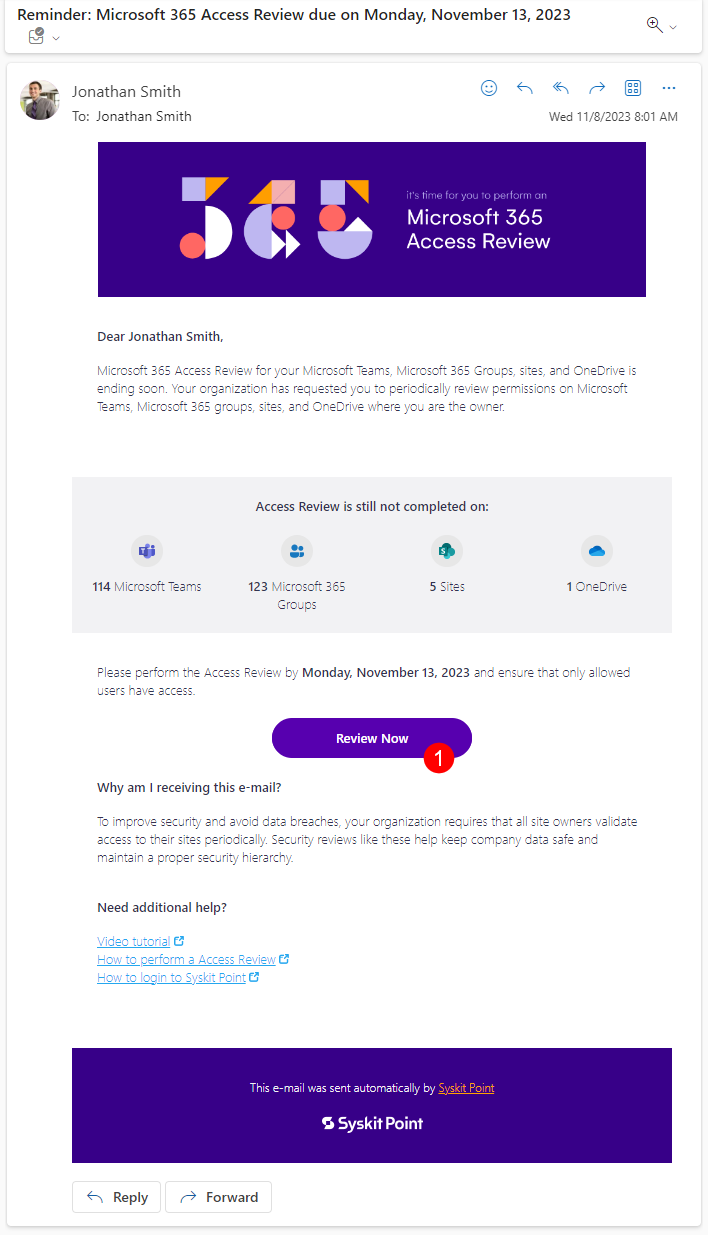
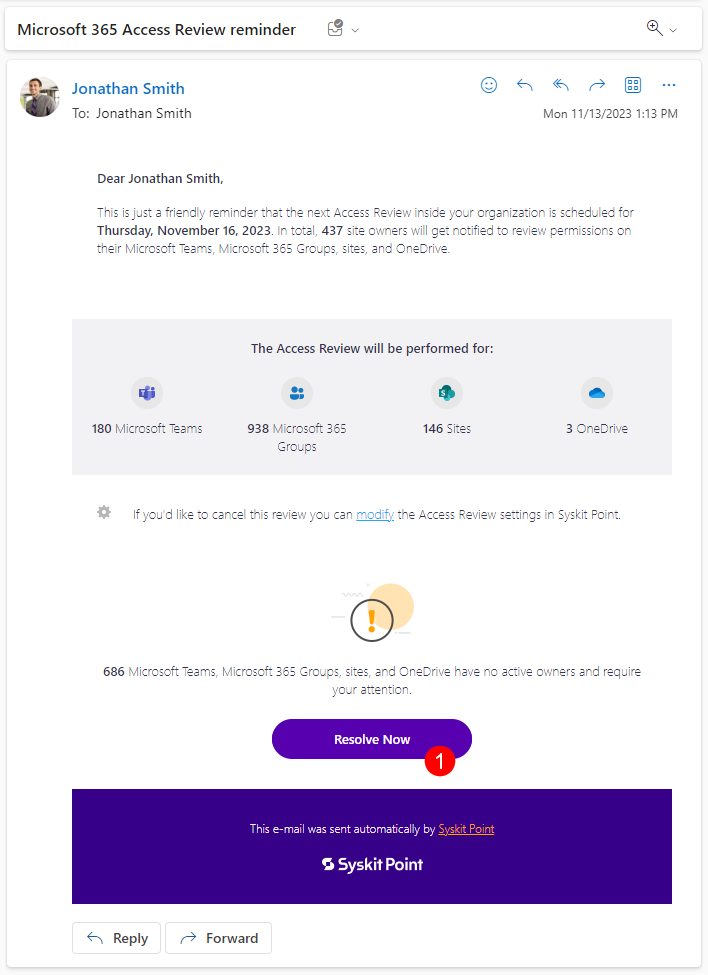
additional updates

diff --git a/governance-and-automation/permissions-review/monitor-permissions-review.md b/governance-and-automation/permissions-review/monitor-permissions-review.md
@@ -43,9 +43,10 @@ Here, we will describe how **Syskit Point Admin** can monitor the progress of an
 
 Three workdays before the start of automated Access Review, Syskit Point Admin users will receive a reminder email with the most important information about the upcoming Access Review:
 
-* **End date** by which the Access Review should be completed
+* **Start date** of the upcoming Access Review
 * **The number of workspaces** - Microsoft Teams, Microsoft 365 Groups, sites, and OneDrive - included in the upcoming Access Review
-* **Review Now (1)** button
+* **Resolve Now (1)** in case some workspaces don't have active owners who will be responsible for performing the Access Review
+  * Clicking the Resolve Now button in the e-mail opens the Manage Reviewers report in Syskit Point where you can add active owners to workspaces by running the Change Owners action
 
 ![Access Review reminder email](../../.gitbook/assets/monitor-access-review-reminder-email.png)
 
@@ -102,15 +103,15 @@ Access Review has, by default, a duration of **ten days**. In this time frame, s
 
 The Access Review is automatically marked as completed ten days after the start. Syskit Point also sends summary emails regarding the completed review to all Syskit Point Admin users. The email contains the following information:
 
-* **Name of the workspace** the Access Review was completed on
-* **Name of the person** that performed the Access Review
-* **Date and time** the Access Review was completed on
+* **Total number of workspaces per workspace type** for which the Access Review was completed
+* **Total number of workspaces** where Access Review was not completed
+* **View Uncompleted Tasks (1)** button 
+  * Clicking the button in the e-mail opens the Access Review report in Syskit Point, where you can see all workspaces in the completed Access Review
+  * Except via e-mail, you can find the completed Access Review by clicking the **Govern** button, located on the left side of the screen. 
 
 ![Email - Access Review completed](../../.gitbook/assets/monitor-access-review-email-completed.png)
 
-To view sites where the Access Review was not completed, open Syskit Point and click the **Govern** button, located on the left side of the screen. 
-
-Click the **Scheduled Review (1)** button, located under the Access Review section. 
+To see the progress of an ongoing Access Review, click the **Scheduled Review (1)** button, located under the Access Review section. 
 
 This screen contains information on:
 
